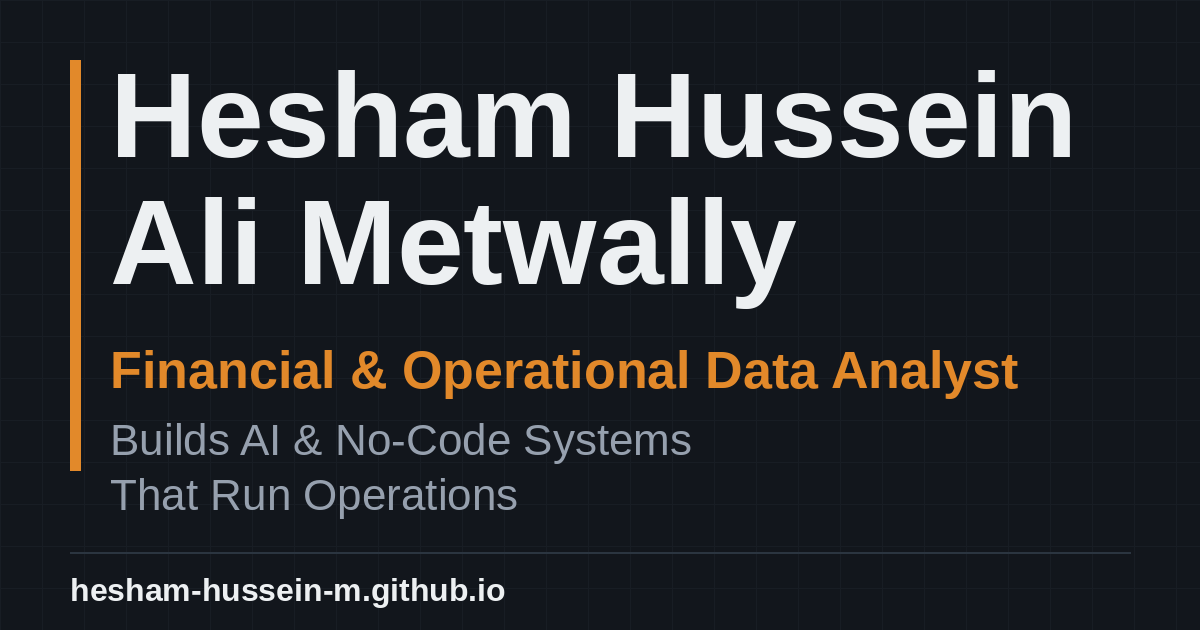
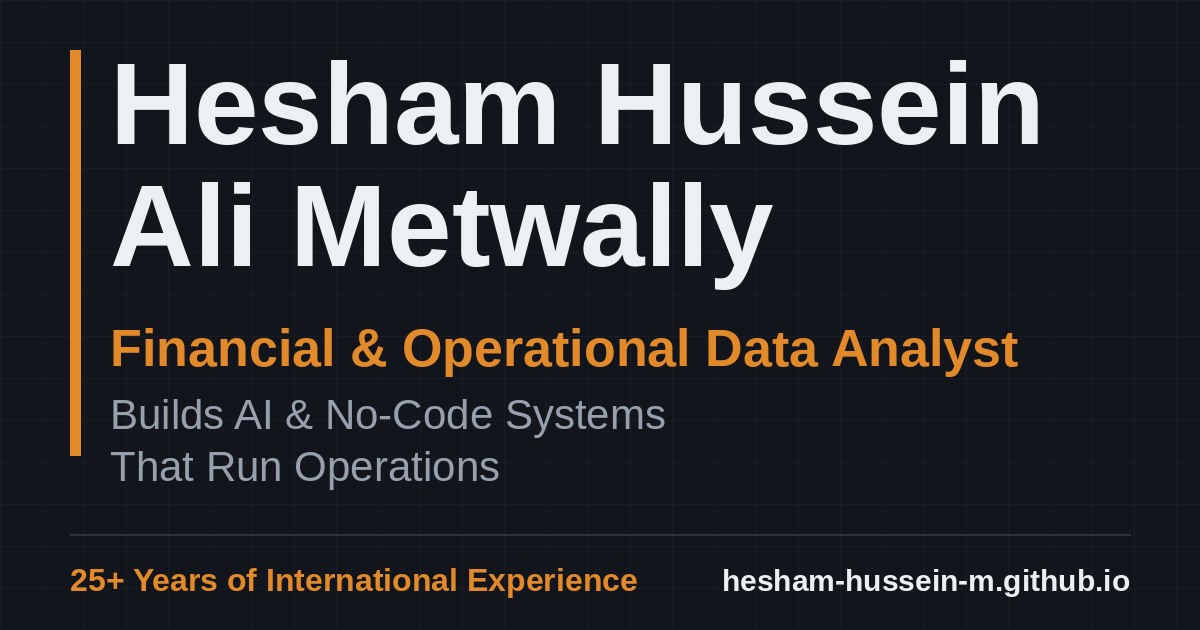
Add files via upload

Changed region(s): [[0.0617, 0.0905, 0.8942, 0.8143], [0.0617, 0.8444, 0.9558, 0.9651], [0.0925, 0.0905, 0.1542, 0.1206]]

diff --git a/index.html b/index.html
@@ -8,13 +8,13 @@
 <meta property="og:url" content="https://hesham-hussein-m.github.io/">
 <meta property="og:title" content="Hesham Hussein Ali Metwally | Financial &amp; Operational Data Analyst | Builds AI &amp; No-Code Systems That Run Operations">
 <meta property="og:description" content="Financial &amp; Operational Data Analyst with 25+ years of experience across Egypt, Libya, and the UAE, directing AI-assisted no-code business systems.">
-<meta property="og:image" content="https://hesham-hussein-m.github.io/og-card.png">
+<meta property="og:image" content="https://hesham-hussein-m.github.io/og-card.png?v=3">
 <meta property="og:image:type" content="image/png">
 <meta property="og:image:width" content="1200">
 <meta property="og:image:height" content="630">
 <meta property="og:image:alt" content="Hesham Hussein Ali Metwally, Financial &amp; Operational Data Analyst">
 <meta name="twitter:card" content="summary_large_image">
-<meta name="twitter:image" content="https://hesham-hussein-m.github.io/og-card.png">
+<meta name="twitter:image" content="https://hesham-hussein-m.github.io/og-card.png?v=3">
 <title id="pageTitle">Hesham Hussein Ali Metwally | Financial &amp; Operational Data Analyst | Builds AI &amp; No-Code Systems That Run Operations</title>
 <meta id="pageDesc" name="description" content="هشام حسين علي متولي — محلل بيانات مالية وتشغيلية بخبرة دولية تفوق 25 عامًا في مصر وليبيا والإمارات، ومصمم أنظمة أعمال بدون برمجة مدعومة بالذكاء الاصطناعي.">
 <meta name="author" content="Hesham Hussein Ali Metwally">
